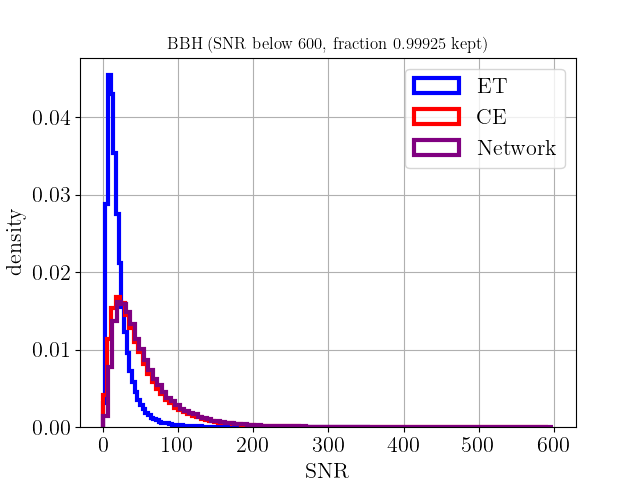
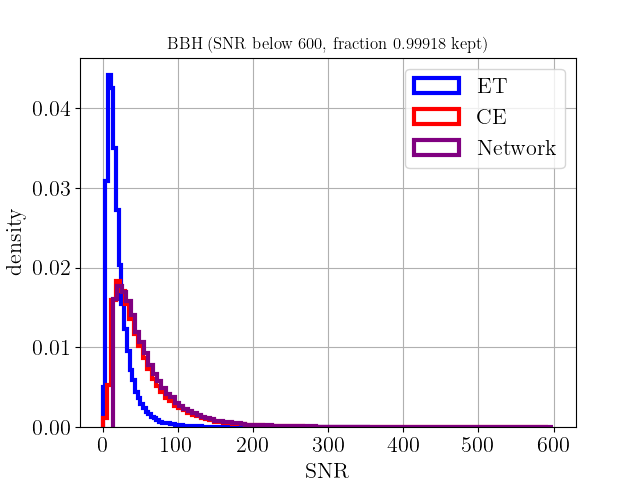
Limit to detectable sources

diff --git a/CoBa/compute_SNR.py b/CoBa/compute_SNR.py
@@ -7,6 +7,7 @@ import json
 # Make bilby silent, otherwise will print for each injected signal
 bilby.core.utils.logger.setLevel("ERROR")
 
+# TODO: rerun the 5Hz catalog for BNS as well -- might give problems with memory etc, first check BBH
 for pop_str in ["BBH"]: # , "BNS" -- NOTE: there was a bug which affected only BBH, so rerunning that now
     
     print(f"Now looping over the {pop_str} population...")
@@ -31,13 +32,12 @@ for pop_str in ["BBH"]: # , "BNS" -- NOTE: there was a bug which affected only B
         event = utils.translate_CoBa_to_bilby(event)
         try: 
             snr_dict = utils.inject_and_get_SNR(event, 
-                                                f_min=20.0, 
+                                                f_min=5.0, 
                                                 f_sampling=4096.0,
                                                 use_transverse_spins=False,
                                                 is_tidal=is_tidal)
         except Exception as e:
-            # We had input domain error for some of them, at least expected for BBH idx=7374 in tqdm
-            # FIXME: take some notes here on how often this happens in the end
+            # We had input domain error for some of them (around 5 -- seems due to very high chirp masses)
             print(f"Error for event {idx}: {e}")
             
             print(f"Now showing the event parameters")
@@ -59,7 +59,7 @@ for pop_str in ["BBH"]: # , "BNS" -- NOTE: there was a bug which affected only B
         utils.CoBa_events_dict[pop_str][key] = utils.CoBa_events_dict[pop_str][key].tolist()
         
     # Save it as JSON:
-    filename = f"CoBa_events_{pop_str}.json"
+    filename = f"CoBa_events_{pop_str}_5Hz.json"
     print(f"Saving the updated CoBa catalogue, with the SNRs, to {filename}")
     with open(filename, "w") as f:
         json.dump(utils.CoBa_events_dict[pop_str], f, indent = 4)

diff --git a/CoBa/explore.py b/CoBa/explore.py
@@ -1,3 +1,7 @@
+"""
+Simple script to load the CoBa catalogs (with the SNRs computed) and have a look at some SNR distributions as sanity checks.
+"""
+
 import os
 import copy
 import arviz
@@ -55,13 +59,15 @@ with open(BNS_CATALOG_FILENAME, "r") as f:
 
 
 def make_snr_histograms(snr_cutoff_dict: dict,
-                        verbose: bool = False) -> None:
+                        verbose: bool = False,
+                        detectable_snr: float = 13.85) -> None:
     """
     Make a plot showing the SNR distribution for ET, CE and the combined network SNR.
 
     Args:
         snr_cutoff (float): Only take events with an SNR below this value, to avoid outliers giving a large tail in the plot
         verbose (bool): Whether or not to plot a few extra things for debugging/checking.
+        detectable_snr (float): SNR above which the event is detectable by the network (default is 13.85: see arXiv:2102.07544v1)
     """
     # Start exploring the setup: load the SNR
     pop_str_list = ["BBH", "BNS"]
@@ -81,6 +87,14 @@ def make_snr_histograms(snr_cutoff_dict: dict,
         et_snr = np.array(catalog["ET_SNR"])
         ce_snr = np.array(catalog["CE_SNR"])
         network_snr = np.sqrt(et_snr ** 2 + ce_snr ** 2)
+        
+        if detectable_snr > 0:
+            print(f"Only events with SNR above {detectable_snr} are detectable by the network.")
+            detected = network_snr > detectable_snr
+            
+            et_snr = et_snr[detected]
+            ce_snr = ce_snr[detected]
+            network_snr = network_snr[detected]
         
         # # Show a couple of the highest SNR points
         if verbose:
